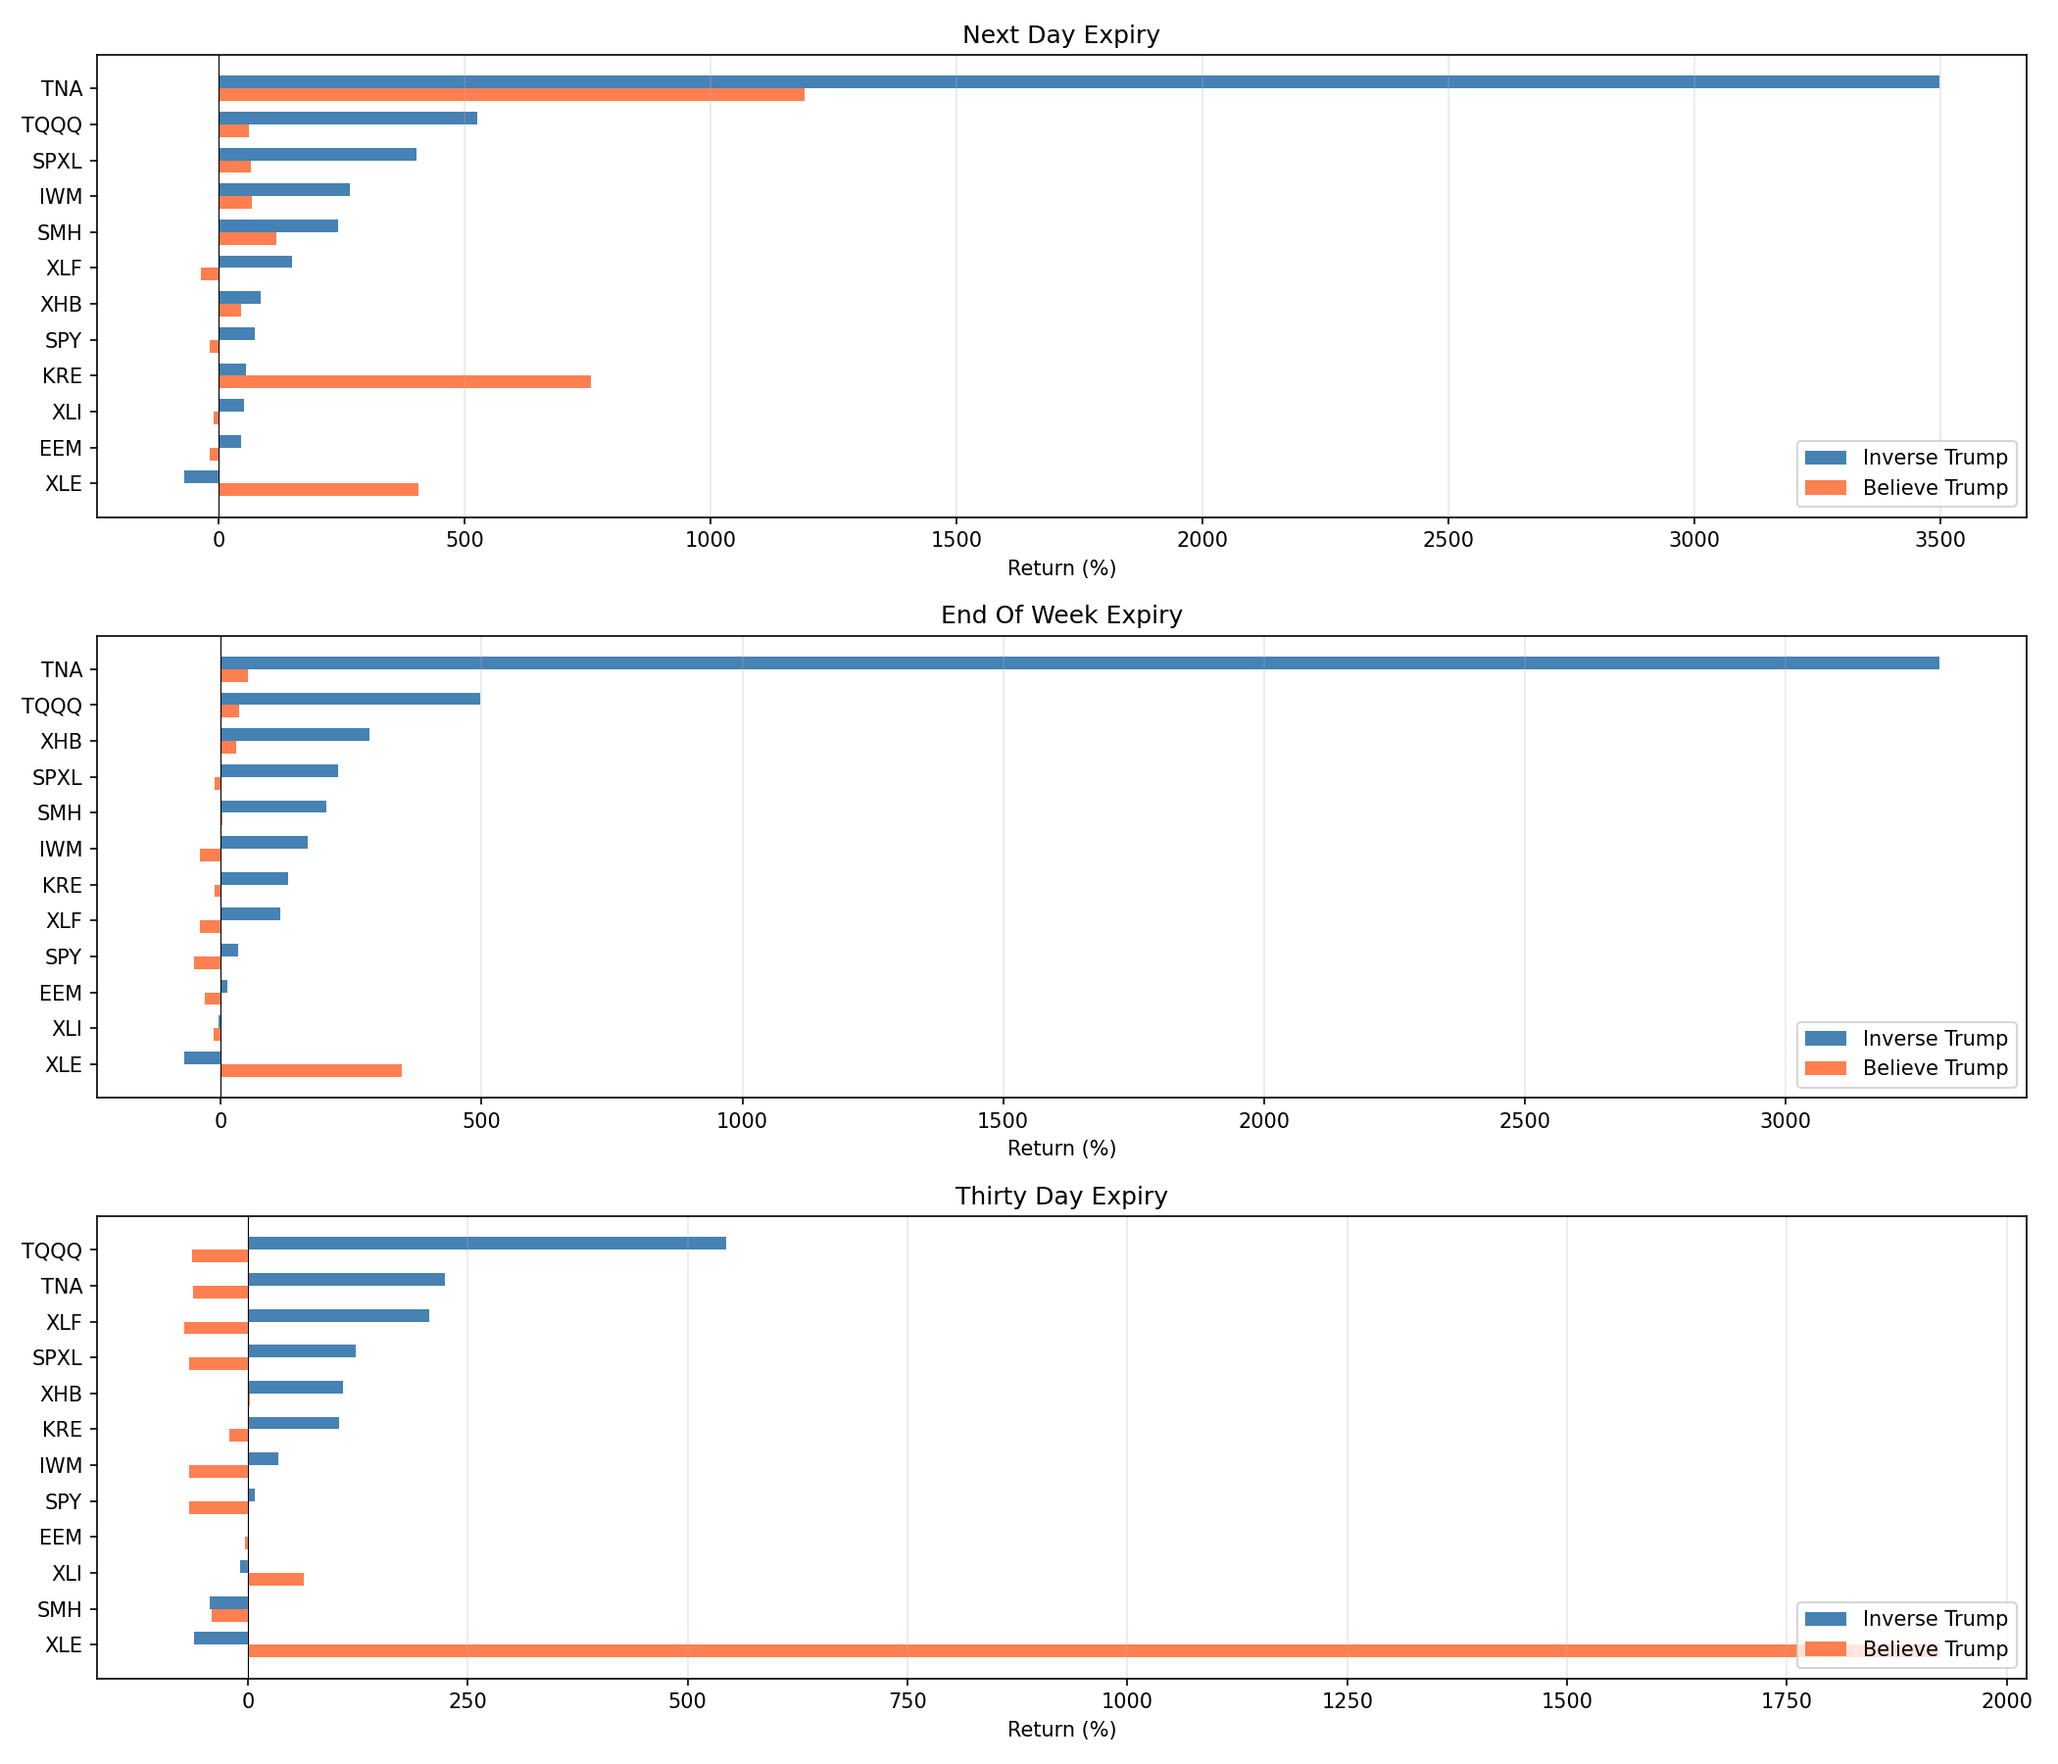
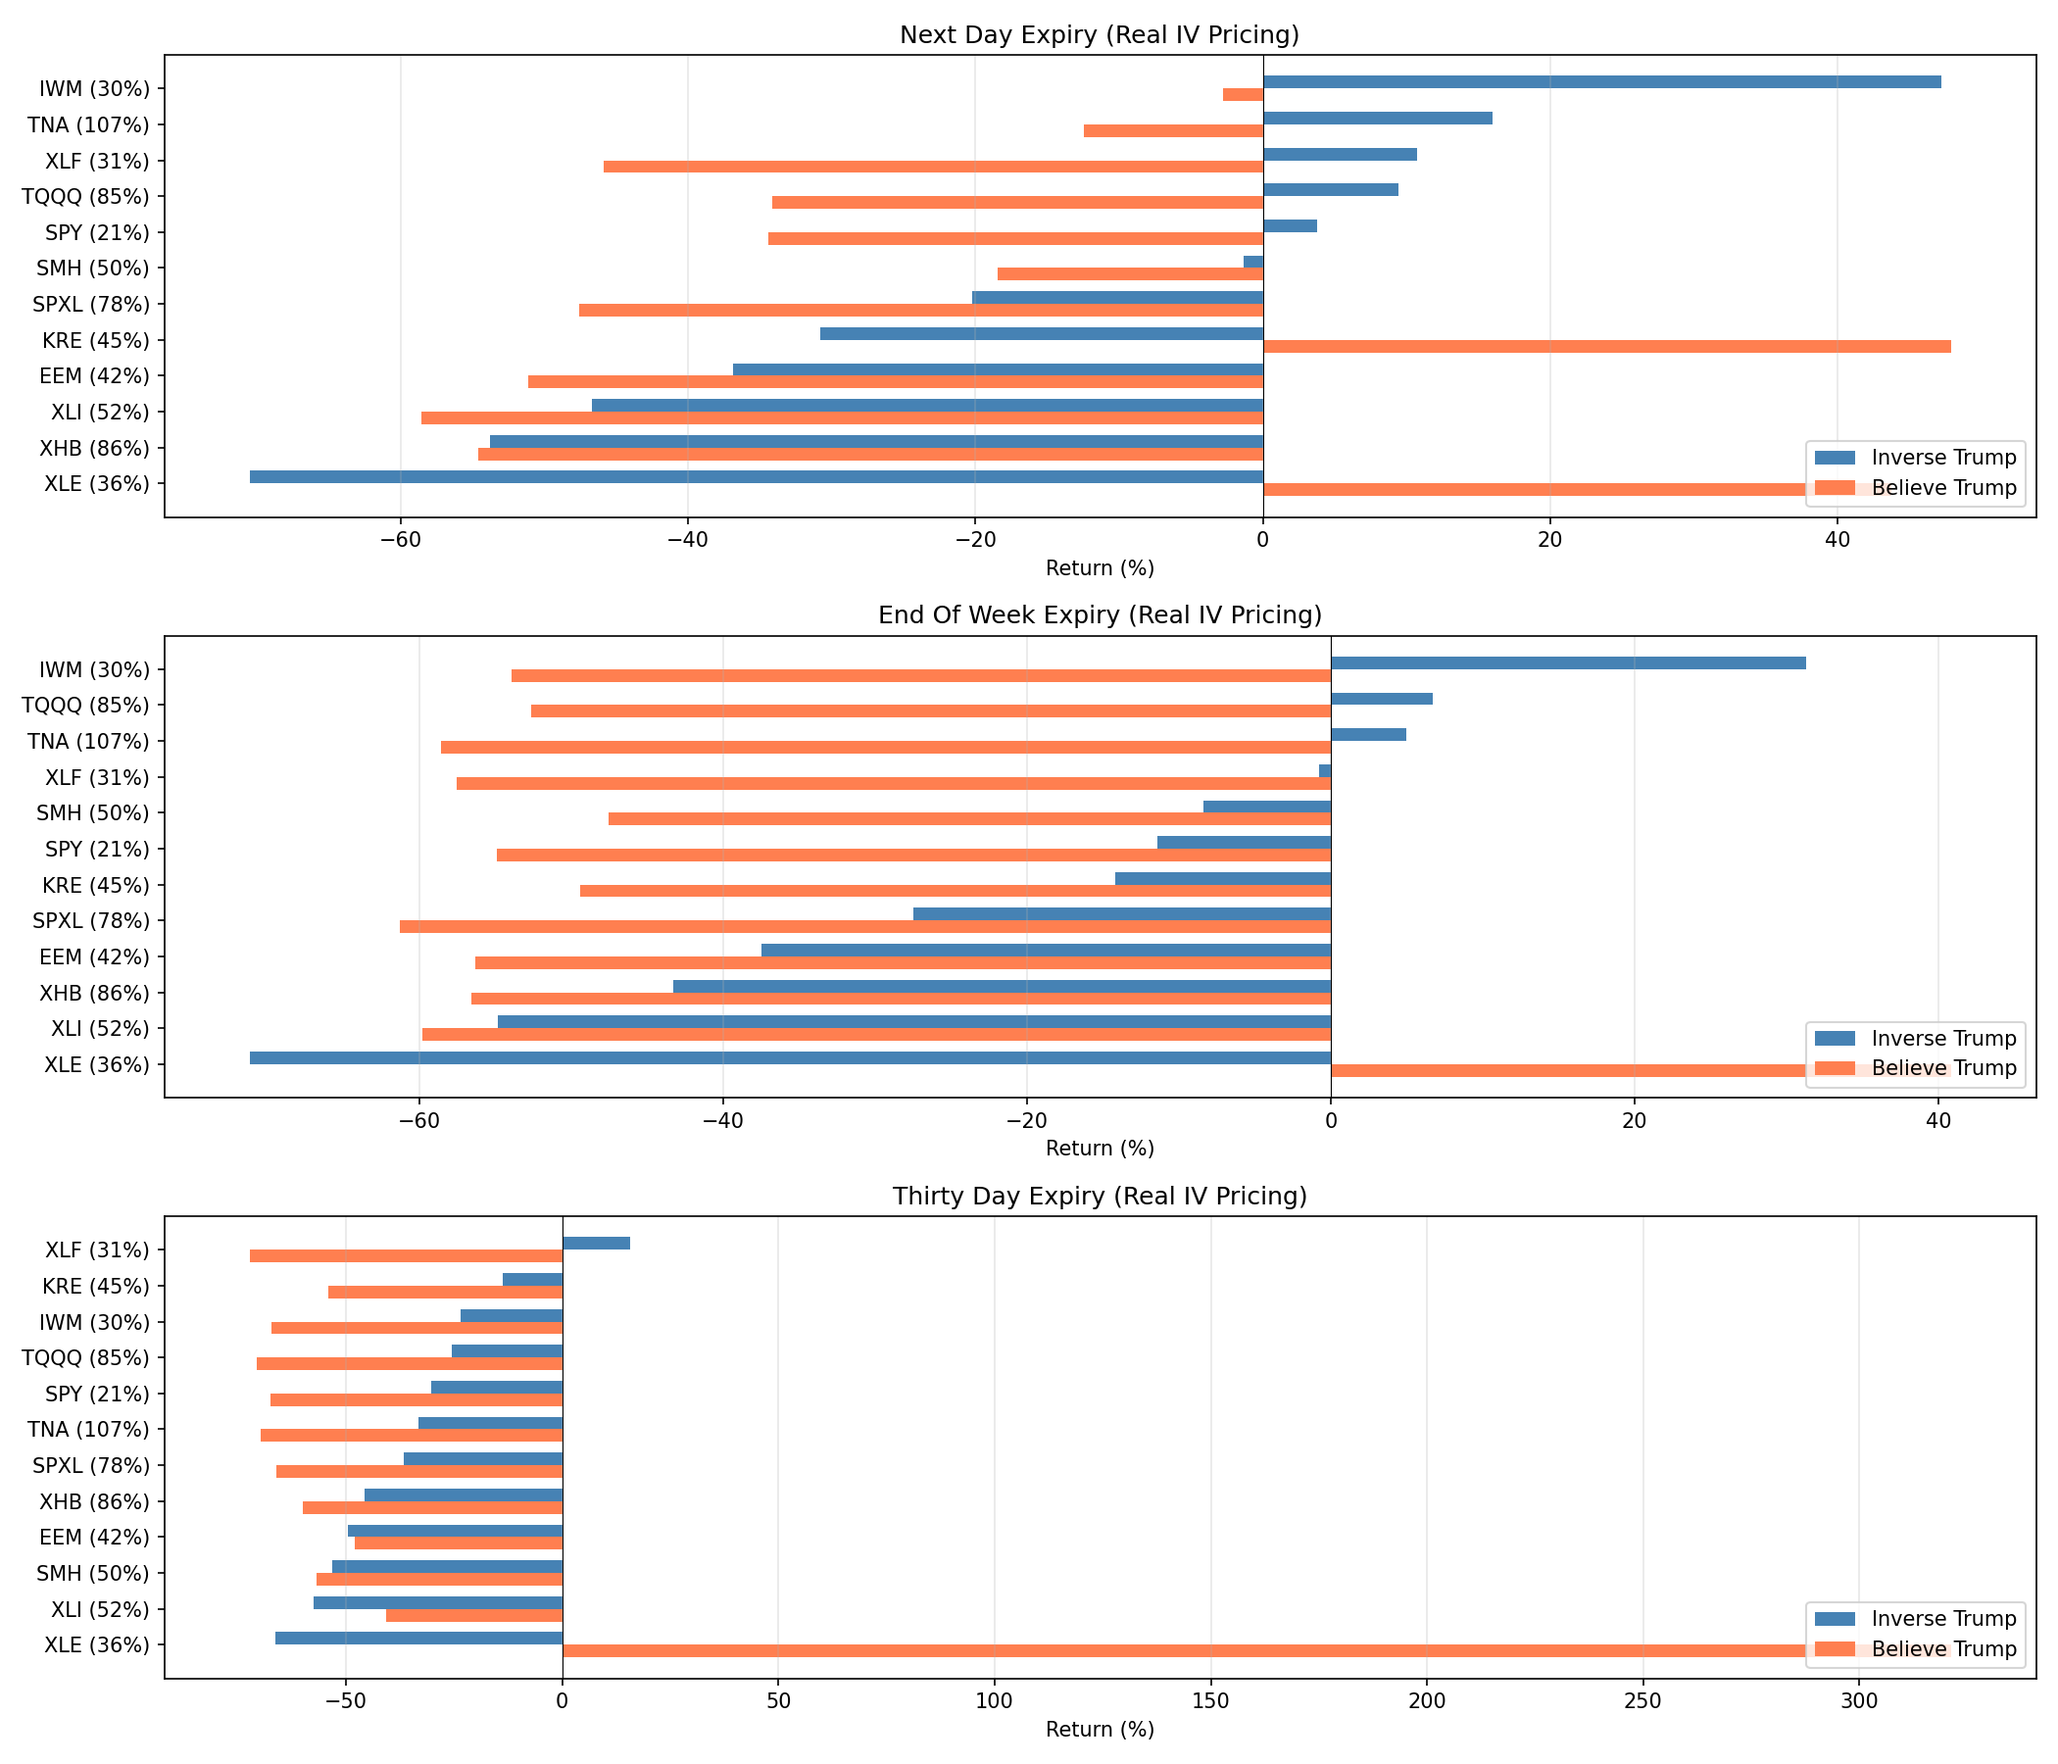
use real implied volatility from options chains for pricing

diff --git a/analysis_multi.py b/analysis_multi.py
@@ -1,4 +1,8 @@
-"""Run inverse Trump strategy across multiple ETFs and compare results."""
+"""Run inverse Trump strategy across multiple ETFs and compare results.
+
+Uses real implied volatility from current options chains where available,
+falling back to historical realized volatility otherwise.
+"""
 import json
 import sys
 from pathlib import Path
@@ -7,6 +11,7 @@ import matplotlib
 matplotlib.use("Agg")
 import matplotlib.pyplot as plt
 import pandas as pd
+import yfinance as yf
 
 from src.backtester import get_prices, run_backtest
 from src.claims import extract_signal
@@ -30,6 +35,31 @@ TICKERS = {
     "SPXL": "3x S&P 500",
     "TNA": "3x Russell 2000",
 }
+
+
+def get_current_iv(ticker_symbol: str) -> float | None:
+    """Fetch current ATM implied volatility from yfinance options chain."""
+    try:
+        t = yf.Ticker(ticker_symbol)
+        price = t.info.get("regularMarketPrice")
+        if not price:
+            return None
+        exps = t.options
+        if not exps:
+            return None
+        # Use nearest expiry for short-term IV
+        chain = t.option_chain(exps[0])
+        puts = chain.puts
+        if puts.empty:
+            return None
+        # Find ATM put
+        atm = puts.iloc[(puts["strike"] - price).abs().argsort()[:1]]
+        iv = atm["impliedVolatility"].values[0]
+        if iv and iv > 0:
+            return float(iv)
+    except Exception:
+        pass
+    return None
 
 
 def load_speeches() -> list[dict]:
@@ -65,12 +95,26 @@ def main():
 
     inverse_signals = extract_signals_from_speeches(speeches, believe=False)
     believe_signals = extract_signals_from_speeches(speeches, believe=True)
-    print(f"{len(inverse_signals)} signal days\n")
+    print(f"{len(inverse_signals)} signal days")
 
+    # Fetch implied volatilities
+    print("\nFetching implied volatilities from options chains...")
+    iv_map = {}
+    for ticker in TICKERS:
+        iv = get_current_iv(ticker)
+        iv_map[ticker] = iv
+        if iv:
+            print(f"  {ticker}: IV = {iv*100:.0f}%")
+        else:
+            print(f"  {ticker}: IV unavailable, using historical vol")
+
+    print()
     results = []
 
     for ticker, name in TICKERS.items():
-        print(f"Fetching {ticker} ({name})...", end=" ", flush=True)
+        iv = iv_map.get(ticker)
+        iv_label = f"IV={iv*100:.0f}%" if iv else "hist vol"
+        print(f"Fetching {ticker} ({name}, {iv_label})...", end=" ", flush=True)
         try:
             prices = get_prices(ticker, "2026-01-01", "2026-12-31")
             if len(prices) < 10:
@@ -80,12 +124,13 @@ def main():
             print(f"ERROR: {e}")
             continue
 
-        inverse_trades = run_backtest(prices, inverse_signals, STARTING_CAPITAL, BET_FRACTION)
-        believe_trades = run_backtest(prices, believe_signals, STARTING_CAPITAL, BET_FRACTION)
+        inverse_trades = run_backtest(prices, inverse_signals, STARTING_CAPITAL, BET_FRACTION, iv_override=iv)
+        believe_trades = run_backtest(prices, believe_signals, STARTING_CAPITAL, BET_FRACTION, iv_override=iv)
 
         for window in ["next_day", "end_of_week", "thirty_day"]:
             port_col = f"portfolio_{window}"
             pnl_col = f"pnl_{window}"
+            comm_col = f"commission_{window}"
 
             if port_col not in inverse_trades.columns:
                 continue
@@ -97,15 +142,18 @@ def main():
 
             inv_wins = (inverse_trades[pnl_col] > 0).sum()
             inv_losses = (inverse_trades[pnl_col] < 0).sum()
+            inv_commissions = inverse_trades[comm_col].sum() if comm_col in inverse_trades.columns else 0
 
             results.append({
                 "ticker": ticker,
                 "name": name,
+                "iv_used": f"{iv*100:.0f}%" if iv else "hist",
                 "window": window,
                 "inverse_return": inv_return,
                 "inverse_final": inv_final,
                 "inverse_wins": inv_wins,
                 "inverse_losses": inv_losses,
+                "inverse_commissions": inv_commissions,
                 "believe_return": bel_return,
                 "believe_final": bel_final,
                 "spread": inv_return - bel_return,
@@ -120,15 +168,15 @@ def main():
     for window in ["next_day", "end_of_week", "thirty_day"]:
         wdf = df[df["window"] == window].sort_values("inverse_return", ascending=False)
         label = window.replace("_", " ").title()
-        print(f"\n{'=' * 80}")
-        print(f"  {label} Expiry")
-        print(f"{'=' * 80}")
-        print(f"  {'Ticker':<8} {'Name':<28} {'Inverse':>10} {'Believe':>10} {'Spread':>10} {'W/L':>8}")
-        print(f"  {'-'*8} {'-'*28} {'-'*10} {'-'*10} {'-'*10} {'-'*8}")
+        print(f"\n{'=' * 90}")
+        print(f"  {label} Expiry (using real implied volatility for pricing)")
+        print(f"{'=' * 90}")
+        print(f"  {'Ticker':<6} {'Name':<25} {'IV':>6} {'Inverse':>10} {'Believe':>10} {'Spread':>10} {'W/L':>8}")
+        print(f"  {'-'*6} {'-'*25} {'-'*6} {'-'*10} {'-'*10} {'-'*10} {'-'*8}")
         for _, row in wdf.iterrows():
-            print(f"  {row['ticker']:<8} {row['name']:<28} {row['inverse_return']:>+9.1f}% {row['believe_return']:>+9.1f}% {row['spread']:>+9.1f}% {int(row['inverse_wins'])}W/{int(row['inverse_losses'])}L")
+            print(f"  {row['ticker']:<6} {row['name']:<25} {row['iv_used']:>6} {row['inverse_return']:>+9.1f}% {row['believe_return']:>+9.1f}% {row['spread']:>+9.1f}% {int(row['inverse_wins'])}W/{int(row['inverse_losses'])}L")
 
-    # Chart: comparison bar chart for next-day expiry
+    # Chart
     fig, axes = plt.subplots(3, 1, figsize=(14, 12))
 
     for idx, window in enumerate(["next_day", "end_of_week", "thirty_day"]):
@@ -141,9 +189,9 @@ def main():
         axes[idx].barh([i + height/2 for i in y], wdf["inverse_return"], height, label="Inverse Trump", color="steelblue")
         axes[idx].barh([i - height/2 for i in y], wdf["believe_return"], height, label="Believe Trump", color="coral")
         axes[idx].set_yticks(list(y))
-        axes[idx].set_yticklabels([f"{row['ticker']}" for _, row in wdf.iterrows()])
+        axes[idx].set_yticklabels([f"{row['ticker']} ({row['iv_used']})" for _, row in wdf.iterrows()])
         axes[idx].set_xlabel("Return (%)")
-        axes[idx].set_title(f"{label} Expiry")
+        axes[idx].set_title(f"{label} Expiry (Real IV Pricing)")
         axes[idx].axvline(x=0, color="black", linewidth=0.5)
         axes[idx].legend(loc="lower right")
         axes[idx].grid(True, alpha=0.3, axis="x")

diff --git a/src/backtester.py b/src/backtester.py
@@ -80,6 +80,7 @@ def run_backtest(
     signals: dict[str, str],
     starting_capital: float,
     bet_fraction: float,
+    iv_override: float | None = None,
 ) -> pd.DataFrame:
     """Run the backtest simulation across all 3 expiry windows.
 
@@ -88,6 +89,7 @@ def run_backtest(
         signals: dict mapping date strings to "put" or "call"
         starting_capital: initial portfolio value
         bet_fraction: fraction of portfolio to bet per trade
+        iv_override: if set, use this implied volatility instead of historical vol
     """
     vol = estimate_volatility(prices)
 
@@ -111,7 +113,10 @@ def run_backtest(
             trade_date = future[0]
 
         spot = prices.loc[trade_date, "Open"]
-        current_vol = vol.loc[:trade_date].dropna().iloc[-1] if len(vol.loc[:trade_date].dropna()) > 0 else 0.20
+        if iv_override is not None:
+            current_vol = iv_override
+        else:
+            current_vol = vol.loc[:trade_date].dropna().iloc[-1] if len(vol.loc[:trade_date].dropna()) > 0 else 0.20
         strike = round(spot)  # ATM
 
         trade_row = {
